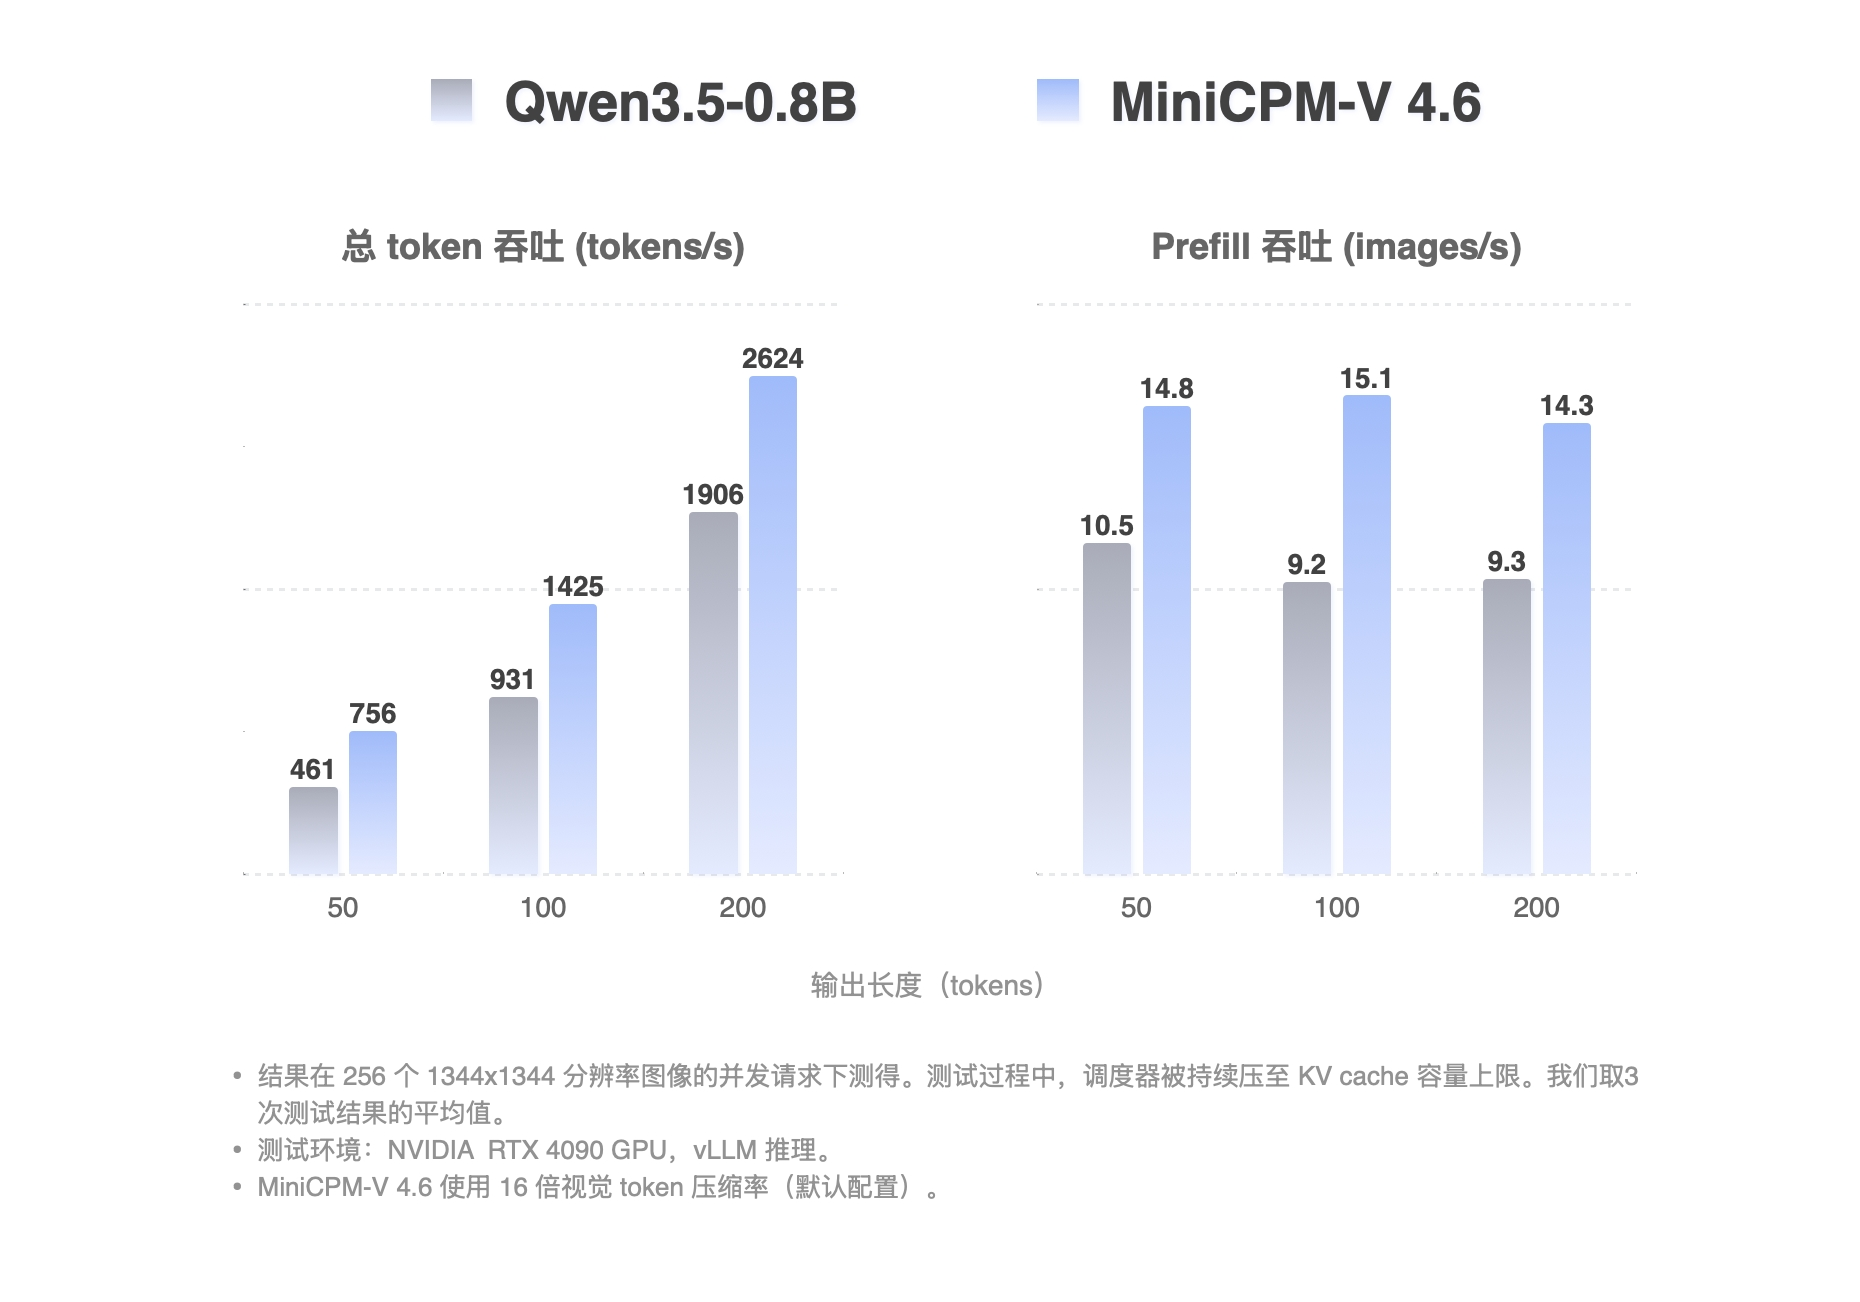
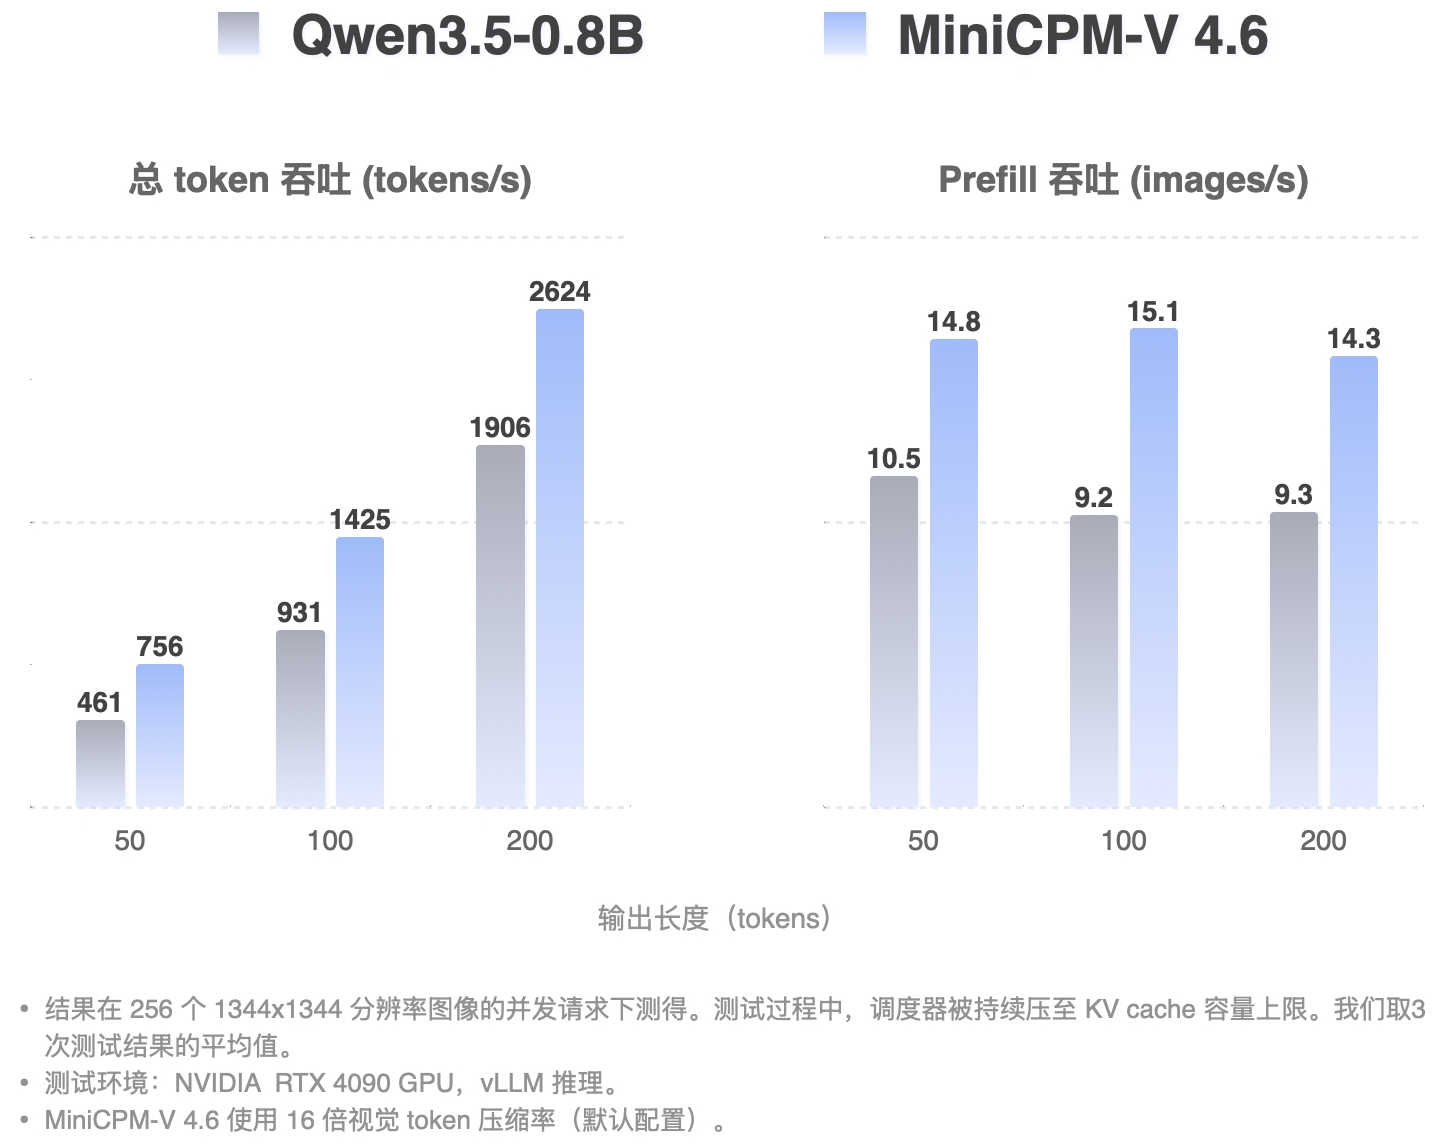
update readme

diff --git a/README_zh.md b/README_zh.md
@@ -132,12 +132,12 @@
 **MiniCPM-V 4.6 推理效率**
 <table align="center">
   <tr>
-    <td align="center"><b>高并发请求吞吐量</b></td>
-    <td align="center"><b>单并发请求首响延迟 TTFT (ms)</b></td>
+    <td align="center" width="50%"><b>高并发请求吞吐量</b></td>
+    <td align="center" width="50%"><b>单并发请求首响延迟 TTFT (ms)</b></td>
   </tr>
   <tr>
-    <td align="center"><img src="./assets/minicpmv4.6/throughput-zh.png" width="100%"></img></td>
-    <td align="center"><img src="./assets/minicpmv4.6/ttft-zh.png" width="100%"></img></td>
+    <td align="center" valign="middle"><img src="./assets/minicpmv4.6/throughput.png" width="110%"></img></td>
+    <td align="center" valign="middle"><img src="./assets/minicpmv4.6/ttft.png" width="100%"></img></td>
   </tr>
 </table>
 

diff --git a/README.md b/README.md
@@ -149,12 +149,12 @@
 **MiniCPM-V 4.6 Inference Efficiency**
 <table align="center">
   <tr>
-    <td align="center"><b>High-Concurrency Throughput</b></td>
-    <td align="center"><b>Single Request TTFT (ms)</b></td>
+    <td align="center" width="50%"><b>High-Concurrency Throughput</b></td>
+    <td align="center" width="50%"><b>Single Request TTFT (ms)</b></td>
   </tr>
   <tr>
-    <td align="center"><img src="./assets/minicpmv4.6/throughput.png" width="90%"></img></td>
-    <td align="center"><img src="./assets/minicpmv4.6/ttft.png" width="100%"></img></td>
+    <td align="center" valign="middle"><img src="./assets/minicpmv4.6/throughput.png" width="110%"></img></td>
+    <td align="center" valign="middle"><img src="./assets/minicpmv4.6/ttft.png" width="100%"></img></td>
   </tr>
 </table>
 
